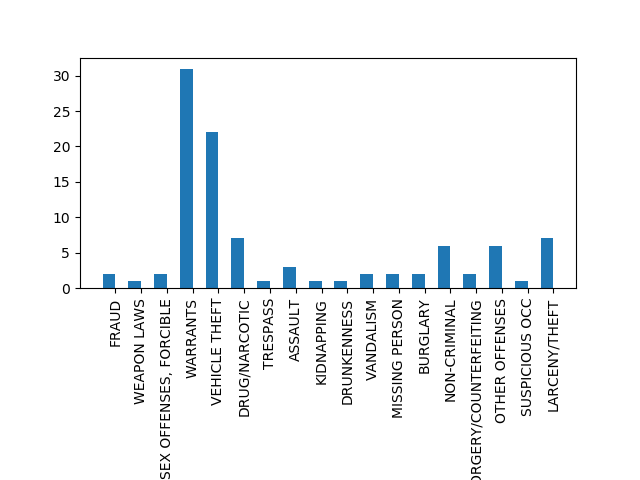
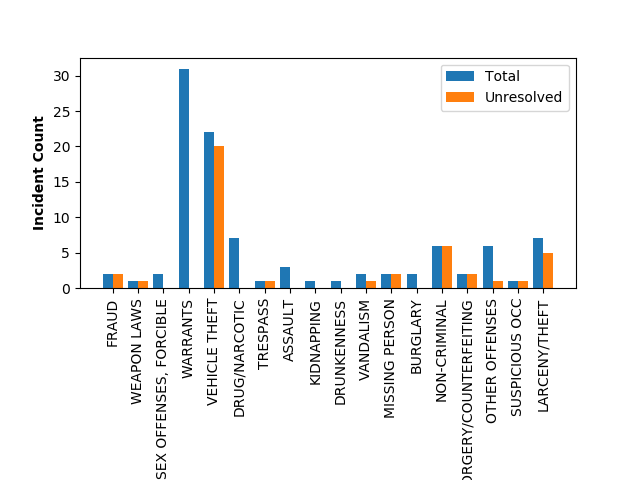
Updated parse.py programe

diff --git a/Data_visualization/src/parse.py b/Data_visualization/src/parse.py
@@ -1,45 +1,52 @@
-from collections import Counter
-
 import csv
 import matplotlib.pyplot as plt
 import numpy as np
+import sys
+import os
 
+TYPE_PLOT_FILENAME = "Type.png"
+DAYS_PLOT_FILENAME = "Days.png"
 
-MY_FILE = "C:/Users/aagga/Documents/SmallProjects/PythonApps/Data_visualization/input/sample_sfpd_incident_all.csv"
-
-
-def parse(raw_file, delimiter):
-    """Parses a raw CSV file to a JSON-like object"""
-
-    opened_file = open(raw_file)
-
-    csv_data = csv.reader(opened_file, delimiter=delimiter)
-
+def parse(raw_file):
+    """
+    Parses CSV file to create dictionary entries
+    """
     parsed_data = []
-
-    # Skip over the first line of the file for the headers
-    fields = csv_data.next()
-
-    # Iterate over each row of the csv file, zip together field -> value
-    for row in csv_data:
-        parsed_data.append(dict(zip(fields, row)))
-
-    # Close the CSV file
-    opened_file.close()
+    with open(raw_file, 'r') as r:
+        rows = csv.reader(r)
+        fields = rows.next()
+        counter = 0
+        for r in rows:
+            parsed_data.append(dict(zip(fields, r)))
 
     return parsed_data
 
+def fetch_incident_by_days(parsed_data):
+    """
+    Parse and return number of incidents by day of the week
+    """
+    incident_counter = dict()
 
-def visualize_days():
+    for incident in parsed_data:
+        day_of_week = incident['DayOfWeek']
+        if day_of_week in incident_counter:
+            incident_counter[day_of_week] += 1
+        else:
+            incident_counter[day_of_week] = 1
+
+    return incident_counter
+
+
+def visualize_days(parsed_data, output_dir):
     """Visualize data by day of week"""
-    data_file = parse(MY_FILE, ",")
-    # Returns a dict where it sums the total values for each key.
-    # In this case, the keys are the DaysOfWeek, and the values are
-    # a count of incidents.
-    counter = Counter(item["DayOfWeek"] for item in data_file)
 
-    # Separate out the counter to order it correctly when plotting.
-    data_list = [
+    # Returning no. of incidents by each day of the week
+    counter = fetch_incident_by_days(parsed_data)
+
+    # data_list = fetch_incident_by_days.keys()
+
+    # Separating the counter to have an ordered list
+    y_values = [
                   counter["Monday"],
                   counter["Tuesday"],
                   counter["Wednesday"],
@@ -48,64 +55,92 @@ def visualize_days():
                   counter["Saturday"],
                   counter["Sunday"]
                 ]
-    day_tuple = tuple(["Mon", "Tues", "Wed", "Thurs", "Fri", "Sat", "Sun"])
 
-    # Assign the data to a plot
-    plt.plot(data_list)
+    # Creating labels for x-axis
+    x_labels = tuple(["Mon", "Tues", "Wed", "Thurs", "Fri", "Sat", "Sun"])
 
-    # Assign labels to the plot from day_list
-    plt.xticks(range(len(day_tuple)), day_tuple)
+    # Assigning the data to plot
+    plt.plot(y_values)
 
-    # Save the graph!
-    # If you look at new-coder/dataviz/tutorial_source, you should see
-    # the PNG file, "Days.png".  This is our graph!
-    plt.savefig("C:/Users/aagga/Documents/SmallProjects/PythonApps/Data_visualization/output/Days.png")
+    # Assigning xticks on x-axis
+    plt.xticks(range(len(x_labels)), x_labels)
 
-    # Close figure
-    plt.clf()
+    # Save the graph and show the figure
+    file_name = os.path.join(output_dir, DAYS_PLOT_FILENAME)
+    plt.savefig(file_name)
+    plt.show()
 
 
-def visualize_type():
-    """Visualize data by category in a bar graph"""
-    data_file = parse(MY_FILE, ",")
-    # Same as before, this returns a dict where it sums the total
-    # incidents per Category.
-    counter = Counter(item["Category"] for item in data_file)
+def fetch_incident_by_category_and_resolution(parsed_data):
+    """
+    Parse and return count of total incidents and unresolved incidents by category
+    """
+    incident_counter = dict()
 
-    # Set the labels which are based on the keys of our counter.
-    labels = tuple(counter.keys())
+    for incident in parsed_data:
+        category = incident['Category']
+        resolution = incident['Resolution']
+        if category in incident_counter:
+            incident_counter[category][0] += 1
+            if resolution == "NONE":
+                incident_counter[category][1] += 1
+        else:
+            if resolution == "NONE":
+                incident_counter[category] = [1, 1]
+            else:
+                incident_counter[category] = [1, 0]
 
-    # Set where the labels hit the x-axis
-    xlocations = np.arange(len(labels)) + 0.5
+    return incident_counter
+
+
+def visualize_type(parsed_data, output_dir):
+    """Data visualization of total incidents and fraction
+    of unresolved incidents per category via bar graph"""
+
+    # Fetching incident data by category
+    counter = fetch_incident_by_category_and_resolution(parsed_data)
+
+    # List of total incidents by Category
+    # list of unsolved incidents by Category
+    y1_values = [item[0] for item in counter.values()]
+    y2_values = [item[1] for item in counter.values()]
+
+    # Category labels
+    x_labels = tuple(counter.keys())
 
     # Width of each bar
-    width = 0.5
+    bar_width = 0.4
 
-    # Assign data to a bar plot
-    plt.bar(xlocations, counter.values(), width=width)
+    # bar locations on x-axis
+    x1_locations = np.arange(len(x_labels))
+    x2_locations = x1_locations + bar_width
 
-    # Assign labels and tick location to x-axis
-    plt.xticks(xlocations + width / 2, labels, rotation=90)
+    # assigning data to a bar plot
+    plt.bar(x1_locations, y1_values, width=bar_width, label = "Total")
+    plt.bar(x2_locations, y2_values, width=bar_width, label = "Unresolved")
 
-    # Give some more room so the labels aren't cut off in the graph
+    # Assigning labels and tick location to x-axis
+    plt.xlabel('Incident Category', fontweight='bold')
+    plt.ylabel('Incident Count', fontweight='bold')
+    plt.xticks(x1_locations + bar_width/2, x_labels, rotation=90)
+
+    # Giving some more room below x-axis
     plt.subplots_adjust(bottom=0.4)
 
-    # Make the overall graph/figure larger
+    # Making the overall graph/figure larger
     plt.rcParams['figure.figsize'] = 12, 8
 
-    # Save the graph!
-    # If you look at new-coder/dataviz/tutorial_source, you should see
-    # the PNG file, "Type.png".  This is our graph!
-    plt.savefig("C:/Users/aagga/Documents/SmallProjects/PythonApps/Data_visualization/output/Type.png")
+    plt.legend()
+    file_name = os.path.join(output_dir, TYPE_PLOT_FILENAME)
+    plt.savefig(file_name)
+    plt.show()
 
-    # Close figure
-    plt.clf()
+def main(input_file, output_dir):
+    parsed_data = parse(input_file)
+    visualize_days(parsed_data, output_dir)
+    visualize_type(parsed_data, output_dir)
 
-
-def main():
-    visualize_days()
-    visualize_type()
-
-
-if __name__ == "__main__":
-    main()
+if __name__ == '__main__':
+    input_file = sys.argv[1]
+    output_dir = sys.argv[2]
+    main(input_file, output_dir)
